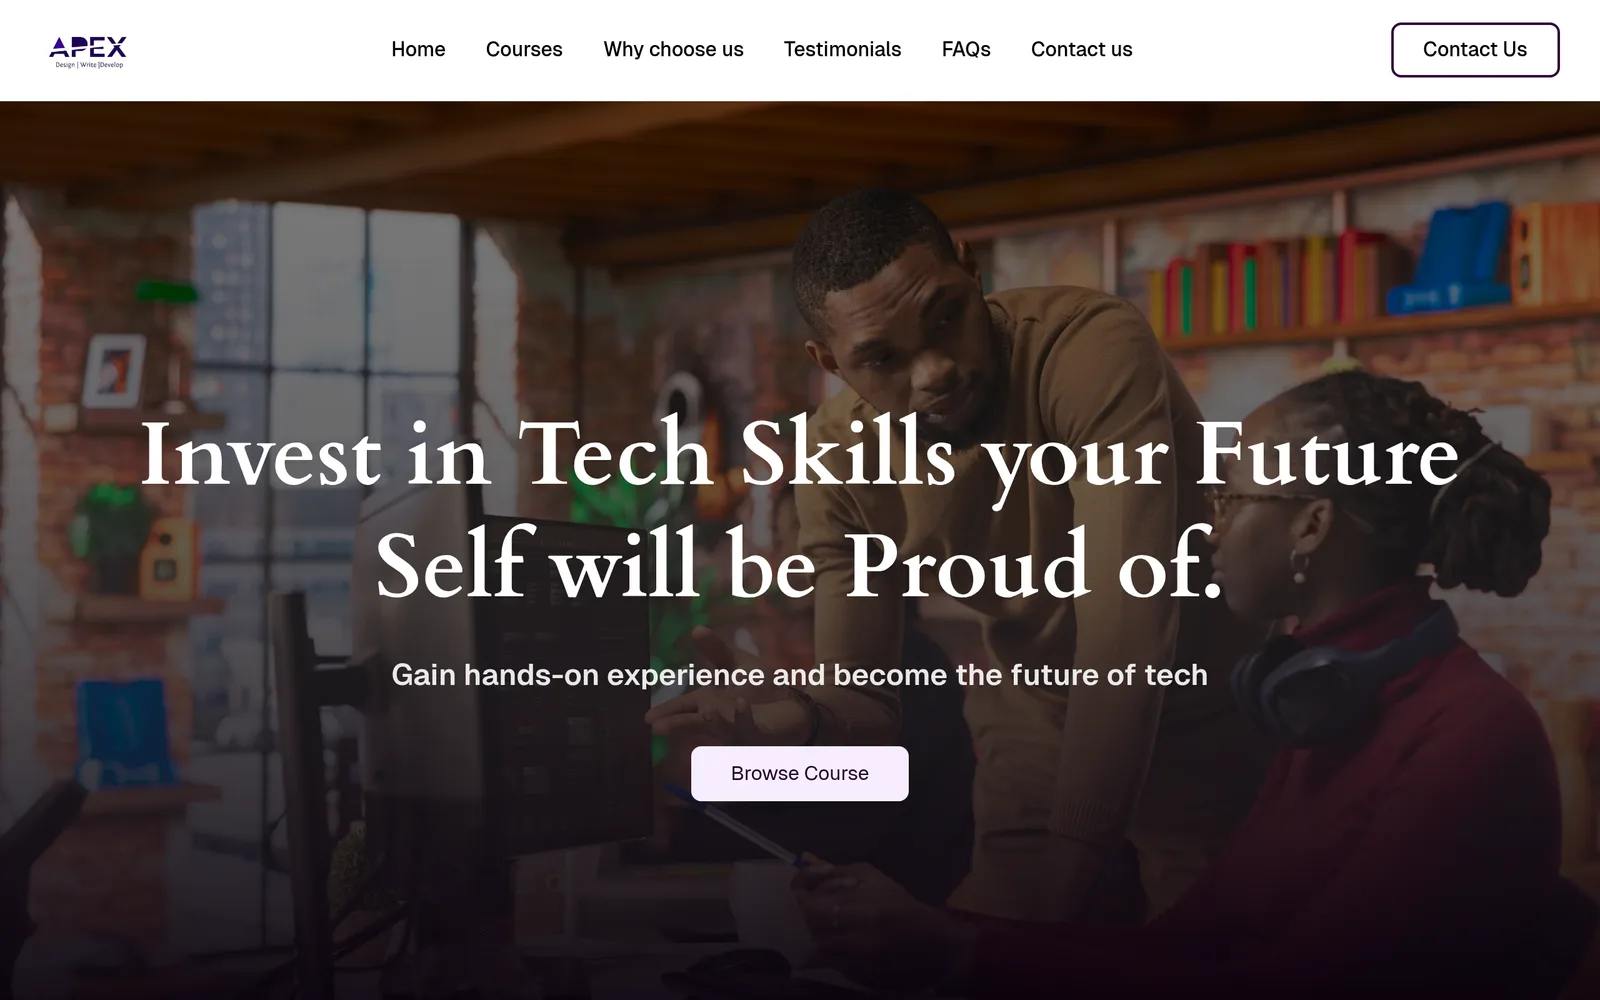
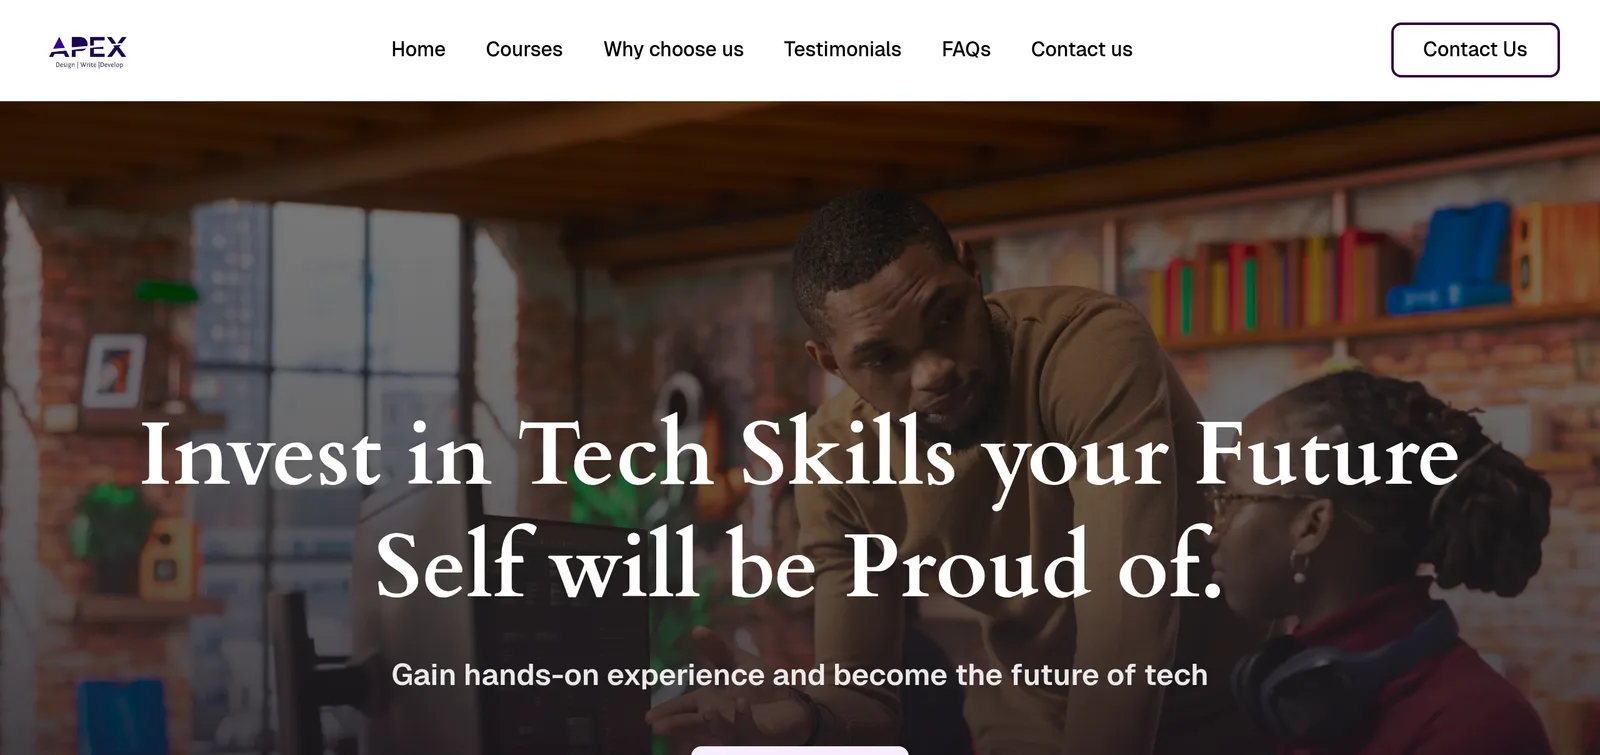
Fix the two cropped screenshots, add the build-in-public streak
kings-tech and apex-techhub were the only 2560x1600 full-page captures in
the set. At 1.60:1 inside a 16:9 card, object-cover crops them top and
bottom, cutting the hero out of both — every other screenshot sits near
2.1:1 and loses only a sliver of each side. Take Kings Tech from the
valentine-portfolio rebuild, which is already a 1600x771 crop, and trim
Apex to a 2.12:1 top band so its hero survives.

Add the 100-day streak here too. This site argues consistency through
work it hosts itself; the Day 100 post is the one claim a reader can
check somewhere Valentine does not control.

diff --git a/src/components/BuildInPublic.jsx b/src/components/BuildInPublic.jsx
@@ -1,0 +1,62 @@
+import { motion } from 'framer-motion'
+import { ArrowUpRight } from 'lucide-react'
+import ScrollReveal from './ScrollReveal'
+import { socialLinks } from '../data/projects'
+
+/** X's own mark; lucide's `X` is the close glyph, not the brand. */
+function XMark({ size = 15 }) {
+  return (
+    <svg width={size} height={size} viewBox="0 0 24 24" fill="currentColor" aria-hidden>
+      <path d="M18.244 2.25h3.308l-7.227 8.26 8.502 11.24H16.17l-5.214-6.817L4.99 21.75H1.68l7.73-8.835L1.254 2.25H8.08l4.713 6.231zm-1.161 17.52h1.833L7.084 4.126H5.117z" />
+    </svg>
+  )
+}
+
+/**
+ * 100 consecutive days shipping in public, linked to the Day 100 post.
+ *
+ * The rest of the page makes its case with work hosted here; this is the one
+ * claim a reader can verify somewhere Valentine does not control, which is
+ * what makes it worth the space.
+ */
+export default function BuildInPublic() {
+  const { days, proof } = socialLinks.buildInPublic
+
+  return (
+    <section className="py-10">
+      <div className="max-w-7xl mx-auto px-6 lg:px-8">
+        <ScrollReveal>
+          <div className="glass-card rounded-2xl px-6 py-6 sm:px-8 flex flex-col sm:flex-row sm:items-center sm:justify-between gap-5">
+            <div className="flex items-center gap-4">
+              <span className="font-heading font-extrabold text-4xl leading-none bg-gradient-to-br from-accent to-accent-2 bg-clip-text text-transparent">
+                {days}
+              </span>
+              <p className="text-sm leading-snug text-text-muted">
+                <span className="font-semibold text-text">
+                  consecutive days building in public
+                </span>
+                <br className="hidden sm:block" /> on X, shipping and posting
+                the work every day.
+              </p>
+            </div>
+
+            <motion.a
+              whileHover={{ y: -2 }}
+              href={proof}
+              target="_blank"
+              rel="noopener noreferrer"
+              className="group inline-flex shrink-0 items-center gap-2 self-start sm:self-auto rounded-full border border-border-light px-5 py-2.5 text-sm font-semibold text-text hover:border-accent/40 hover:bg-accent/5 transition-all duration-300"
+            >
+              <XMark />
+              Day {days} post
+              <ArrowUpRight
+                size={14}
+                className="group-hover:-translate-y-0.5 group-hover:translate-x-0.5 transition-transform"
+              />
+            </motion.a>
+          </div>
+        </ScrollReveal>
+      </div>
+    </section>
+  )
+}

diff --git a/src/data/projects.js b/src/data/projects.js
@@ -190,6 +190,12 @@ export const skills = {
 
 export const socialLinks = {
   x: "https://x.com/Vibe_with_val",
+  // 100 consecutive days shipping in public, with the Day 100 post as proof.
+  // Externally verifiable, which is what separates it from a claim.
+  buildInPublic: {
+    days: 100,
+    proof: "https://x.com/Vibe_with_val/status/2088517731775631751",
+  },
   instagram: "https://instagram.com/iamazolibe",
   linkedin: "https://www.linkedin.com/in/valentine-azolibe-45578b323",
   github: "https://github.com/Mexican1922",

diff --git a/src/pages/HomePage.jsx b/src/pages/HomePage.jsx
@@ -1,4 +1,5 @@
 import Hero from '../components/Hero'
+import BuildInPublic from '../components/BuildInPublic'
 import FeaturedProjects from '../components/FeaturedProjects'
 import Skills from '../components/Skills'
 import Story from '../components/Story'
@@ -7,6 +8,7 @@ export default function HomePage() {
   return (
     <>
       <Hero />
+      <BuildInPublic />
       <FeaturedProjects />
       <Skills />
       <Story />
